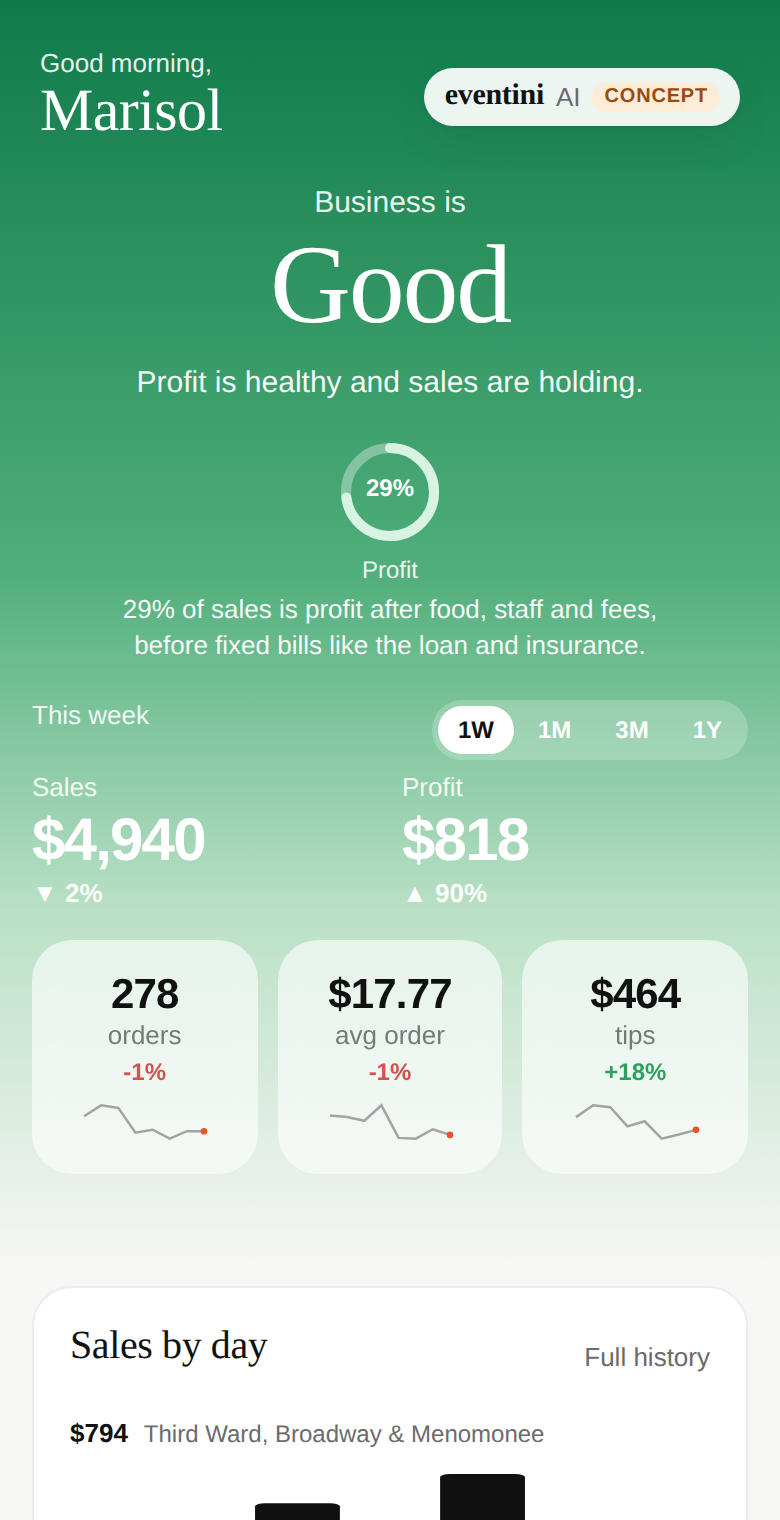
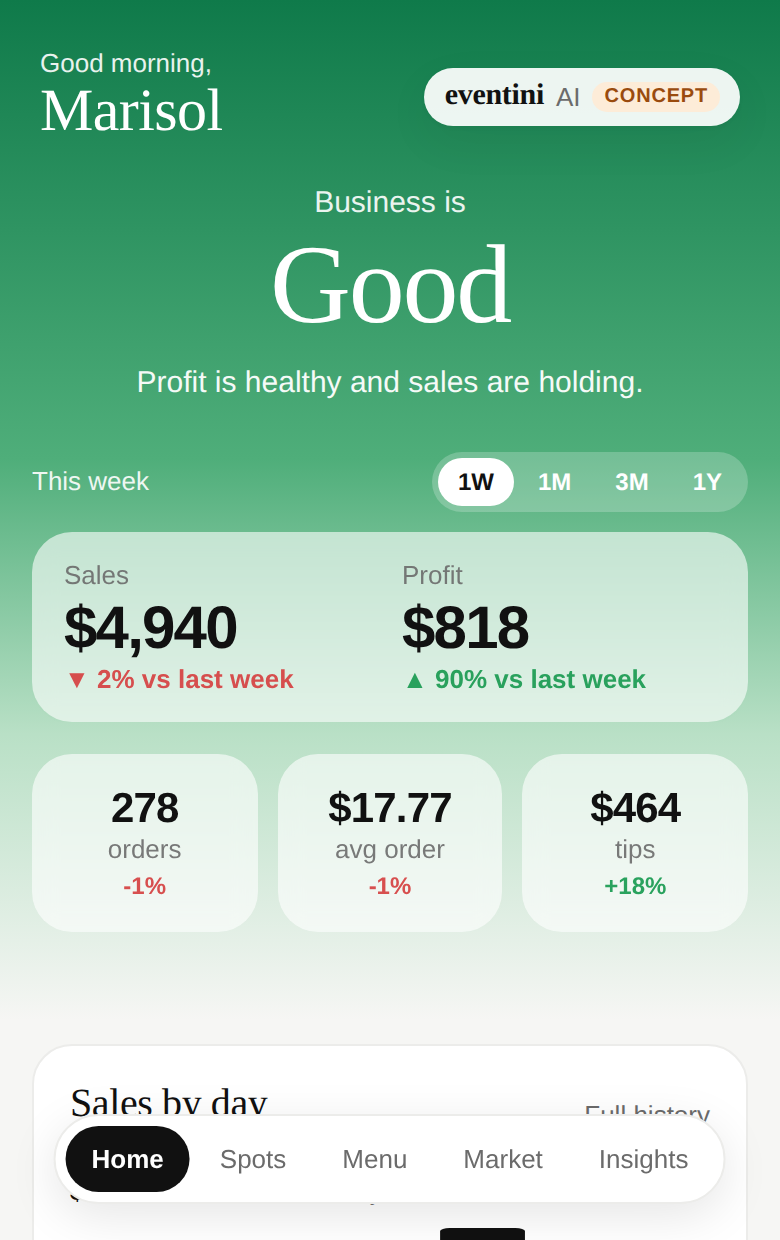
Sales and Profit on a frosted panel with dark text for legibility
Claude-Session: https://claude.ai/code/session_011kULvXi1EhLGoQfkcWDNEp

diff --git a/food-truck-app/src/app.css b/food-truck-app/src/app.css
@@ -200,7 +200,7 @@ a.plain { text-decoration: none; color: inherit; }
 .rating-big { font-family: 'Fraunces', Georgia, serif; font-size: 56px; font-weight: 500; letter-spacing: -0.02em; line-height: 1.05; margin: 4px 0 8px; }
 .rating-hero .rating-sum { font-size: 15px; color: #fff; opacity: 0.95; max-width: 300px; margin: 0 auto; line-height: 1.4; }
 .rating-why { margin-top: 10px; font-size: 13px; opacity: 0.85; }
-.grad .hero-row { margin-top: 18px; align-items: flex-start; }
+.grad .hero-row { margin-top: 18px; align-items: center; }
 .grad .mid { font-size: 32px; font-weight: 700; letter-spacing: -0.03em; line-height: 1.05; margin: 4px 0 2px; }
 
 /* tiles with history */
@@ -294,8 +294,16 @@ button.tile { font: inherit; border: 0; cursor: pointer; text-align: center; }
 .line .chev { color: var(--ink-3); font-size: 22px; }
 
 /* sales + profit side by side */
-.two { display: grid; grid-template-columns: 1fr 1fr; gap: 12px; margin-top: 6px; }
+.two {
+  display: grid; grid-template-columns: 1fr 1fr; gap: 12px; margin-top: 10px;
+  background: rgba(255, 255, 255, 0.6); backdrop-filter: blur(6px); border-radius: var(--radius); padding: 14px 16px;
+  color: var(--ink);
+}
+.two .label { color: var(--ink-2); }
 .two .mid { font-size: 30px; }
+.two .delta.up { color: var(--good); }
+.two .delta.down { color: var(--bad); }
+.two .delta.muted { color: var(--ink-3); }
 
 /* statement */
 .stmt { list-style: none; margin: 0; padding: 0; }
